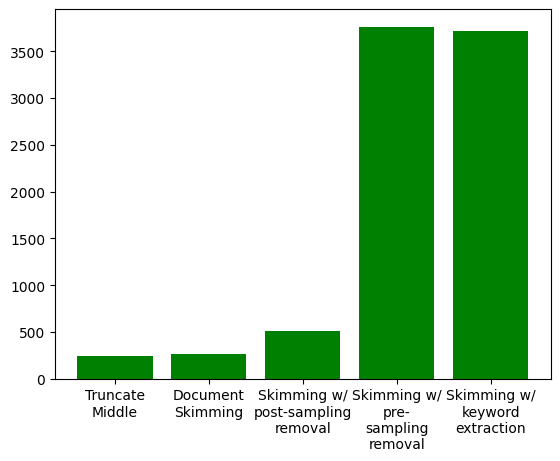
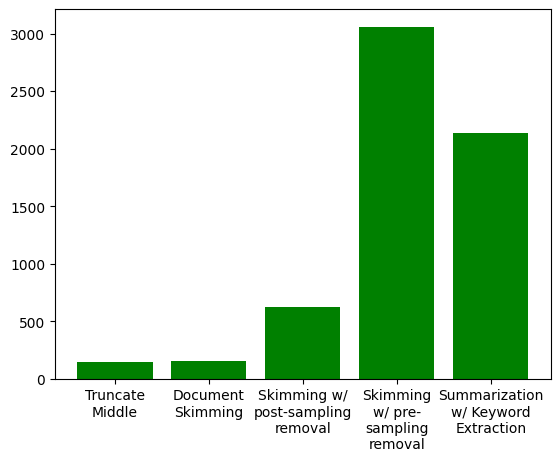
Updated report

diff --git a/Report/Sections/findings.tex b/Report/Sections/findings.tex
@@ -71,21 +71,22 @@ Refer to \autoref{tab:bigpatent} for the results.
 
 \subsection*{Time analysis}
 
-We evaluate the time complexity of our methods by measuring the mean time taken to process a
-document (excluding the time taken by the summarizer to generate the summaries).
+We evaluate the time complexity of our methods by measuring the mean time taken to process
+a document (excluding the time taken by the summarizer to generate the summaries).
 We find that Central Truncation (\ref{method:truncation}) and Document Skimming
 (\ref{method:skimming}) take approximately the same time.
 Skimming with post-sampling removal takes slightly more time than the other two methods.
-We can see a significant increase in time taken by Skimming with pre-sampling removal and Summarization
-with Keyword Extraction (\ref{method:keyword}) due to the additional computations required.
-\autoref{fig:encoder-times} illustrates the average time taken by our methods.
-Check \autoref{tab:encoder-times} for exact values.
+We can see a significant increase in time taken by Skimming with pre-sampling removal
+and Summarization with Keyword Extraction (\ref{method:keyword}) due to the additional
+computations required.
+\autoref{fig:times} illustrates the average time taken by our methods.
+Check \autoref{tab:encoder-times} for exact values rounded-off to two decimal places.
 
 \begin{figure}[!ht]
 	\centering
 	\includegraphics[width=.48\textwidth]{Images/encoder-times.png}
-	\caption{Mean time taken by our methods (in milliseconds)}
-	\label{fig:encoder-times}
+	\caption{Mean time taken per document using BART tokenizer on BigPatent dataset}
+	\label{fig:times}
 \end{figure}
 
 \begin{table}[!ht]
@@ -95,16 +96,17 @@ Check \autoref{tab:encoder-times} for exact values.
 		\hline
 		Method & Mean time taken \\
 		\hline
-		Central Truncation & 244.81 ms \\
-		Document Skimming & 261.14 ms \\
-		Skimming w/ post- & 509.15 ms \\
+		Central Truncation & 142.50 ms \\
+		Document Skimming & 155.42 ms \\
+		Skimming w/ post- & 625.17 ms \\
 		sampling removal & \\
-		Skimming w/ pre- & 3761.55 ms \\
+		Skimming w/ pre- & 3059.63 ms \\
 		sampling removal & \\
-		Summarization w/ Extraction & 3715.82 ms \\
+		Summarization & 2131.40 ms \\
+		w/ Extraction & \\
 		\hline
 	\end{tabular}
 
-	\caption{Mean time taken to process a document}
+	\caption{Mean time taken per document using BART tokenizer on BigPatent dataset}
 	\label{tab:encoder-times}
 \end{table}
